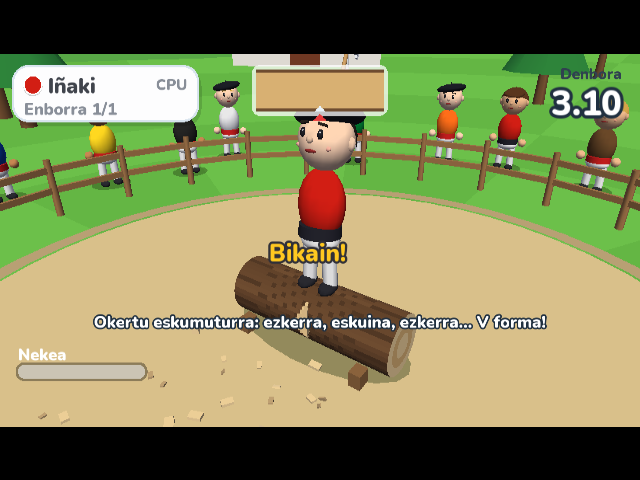
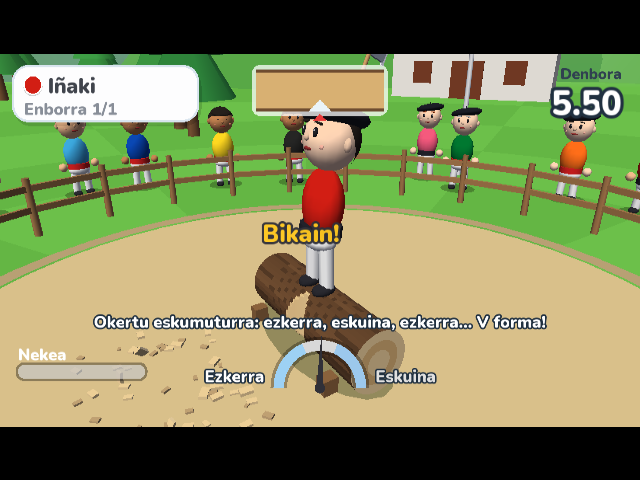
Ajustes de cámara, cansancio y márgenes; script de teclas para Dolphin; documentación

diff --git a/src/games/aizkolaritza/aizko_scene.cpp b/src/games/aizkolaritza/aizko_scene.cpp
@@ -383,8 +383,8 @@ void AizkoScene::update(float dt) {
 
     // Cámara: tres cuartos por delante del aizkolari, gira con él al darse la vuelta
     float camYaw = aizk_.yaw() + 1.0f;
-    float dist = 3.1f, height = 1.25f;
-    Vec3 target = log_.center() + Vec3(0, 0.62f, 0);
+    float dist = 4.0f, height = 1.2f;
+    Vec3 target = log_.center() + Vec3(0, 0.9f, 0);
     if (state_ == ST_INTRO) {
         float k = smooth01(stateT_ / 2.2f);
         camYaw += (1 - k) * 1.3f;
@@ -444,21 +444,21 @@ void AizkoScene::drawHud() {
     const Profile& pr = profile(cur_);
 
     // Jugador y número de tronco
-    ui::panel(16, 14, 250, 74);
-    ui::colorDot(44, 40, 11, FAV_COLORS[pr.color % NUM_COLORS]);
-    font::plain(pr.name, 64, 22, 28, UI_TEXT);
-    if (cfg_.bot[cur_]) font::plain(txt::CPU, 250, 26, 20, UI_TEXT_LIGHT, ALIGN_RIGHT);
+    ui::panel(34, 26, 250, 74);
+    ui::colorDot(62, 52, 11, FAV_COLORS[pr.color % NUM_COLORS]);
+    font::plain(pr.name, 82, 34, 28, UI_TEXT);
+    if (cfg_.bot[cur_]) font::plain(txt::CPU, 268, 38, 20, UI_TEXT_LIGHT, ALIGN_RIGHT);
     snprintf(buf, sizeof(buf), txt::LOG_N_OF, clampv(logIndex_ + 1, 1, cfg_.numLogs), cfg_.numLogs);
-    font::plain(buf, 32, 56, 22, UI_TEXT_LIGHT);
+    font::plain(buf, 50, 68, 22, UI_TEXT_LIGHT);
 
     // Tiempo
     ui::formatTime((unsigned)(timer_ * 1000), buf, sizeof(buf));
-    font::plain(txt::TIME, W - 24, 12, 20, rgba(0x30, 0x40, 0x50), ALIGN_RIGHT);
-    font::draw(buf, W - 24, 32, 46, UI_WHITE, rgba(0x20, 0x30, 0x40), ALIGN_RIGHT);
+    font::plain(txt::TIME, W - 40, 24, 20, rgba(0x30, 0x40, 0x50), ALIGN_RIGHT);
+    font::draw(buf, W - 40, 44, 46, UI_WHITE, rgba(0x20, 0x30, 0x40), ALIGN_RIGHT);
 
     // Esquema del tronco visto desde arriba con las dos V
     {
-        float cx = W / 2, top = 20, w = 170, h = 54;
+        float w = 150, h = 48, cx = W - 40 - w / 2, top = 112;
         gfx::roundRect(cx - w / 2 - 6, top - 6, w + 12, h + 12, 12, rgba(255, 255, 255, 190));
         gfx::rect(cx - w / 2, top, w, h, BARK);
         gfx::rect(cx - w / 2, top + 4, w, h - 8, WOOD_MID);
@@ -474,7 +474,7 @@ void AizkoScene::drawHud() {
 
     // Cansancio
     {
-        float x = 24, y = 400, w = 170, h = 18;
+        float x = 44, y = 396, w = 170, h = 18;
         font::plain(txt::FATIGUE, x, y - 28, 22, UI_WHITE);
         gfx::roundRect(x - 3, y - 3, w + 6, h + 6, 11, rgba(0, 0, 0, 90));
         gfx::roundRect(x, y, w, h, 9, rgba(255, 255, 255, 140));

diff --git a/src/engine/tuning.h b/src/engine/tuning.h
@@ -20,8 +20,8 @@ constexpr float LOG_LENGTH = 1.5f;      // m
 constexpr float CUT_PER_CHOP = 0.105f;  // fracción del radio por golpe perfecto
 constexpr float REPEAT_SIDE_FACTOR = 0.35f;  // golpe por el mismo lado de la V que el anterior
 constexpr float STRAIGHT_FACTOR = 0.5f;      // golpe sin inclinar
-constexpr float FATIGUE_PER_CHOP = 0.11f;
-constexpr float FATIGUE_RECOVER = 0.28f;     // por segundo
+constexpr float FATIGUE_PER_CHOP = 0.1f;
+constexpr float FATIGUE_RECOVER = 0.14f;     // por segundo
 constexpr float FATIGUE_HEAVY = 0.7f;        // a partir de aquí los golpes pierden fuerza
 constexpr float TURN_ALLOWED = 0.6f;         // profundidad (× radio) para poder darse la vuelta
 constexpr float TURN_PROMPT = 0.9f;          // profundidad para mostrar "Buelta eman!"

diff --git a/src/main.cpp b/src/main.cpp
@@ -33,7 +33,7 @@ static Scene* firstScene() {
         case 6:
             cfg.training = false;
             cfg.numPlayers = 2;
-            cfg.numLogs = 2;
+            cfg.numLogs = 1;
             cfg.bot[0] = cfg.bot[1] = true;
             return makeAizkoScene(cfg);
         case 7:

diff --git a/CLAUDE.md b/CLAUDE.md
@@ -3,7 +3,7 @@
 Juego homebrew de Wii estilo Wii Sports con deportes rurales vascos. Lee **docs/SPEC.md** (qué se construye) y **docs/ROADMAP.md** (por dónde vamos) antes de empezar cualquier tarea.
 
 ## Forma de trabajar
-- El usuario habla castellano; los textos del juego van en **euskera**.
+- El usuario habla castellano; los textos del juego van en **euskera** (todos en `src/game/text.h`).
 - Tareas medianas: coge el siguiente punto sin hacer de ROADMAP.md, impleméntalo, compílalo, pruébalo en Dolphin (con captura de pantalla) y luego haz commit + push y marca el punto en el roadmap.
 - Lo que solo se puede comprobar en la Wii real (cómo se sienten los gestos, el rendimiento) se apunta en la sección "Pendiente de probar en Wii" del final, para que lo pruebe el usuario.
 - El repo es **público**: solo assets propios o con licencia CC0/OFL (apúntalos en `ASSETS.md`). Nada de assets de Nintendo ni ISOs.
@@ -11,19 +11,39 @@ Juego homebrew de Wii estilo Wii Sports con deportes rurales vascos. Lee **docs/
 ## Entorno (Windows)
 - devkitPro: `C:\devkitPro` (instalador por defecto; entorno de devkitPro: `DEVKITPRO=/opt/devkitpro`, `DEVKITPPC=/opt/devkitpro/devkitPPC`)
 - Dolphin: `D:\Tools\Dolphin\Dolphin-x64\Dolphin.exe` (portable; config en `User/` junto al exe)
-- Blender: abierto con el addon MCP (herramientas `mcp__blender__*`) para crear modelos
+- Blender: addon MCP (herramientas `mcp__blender__*`), de momento no se usa: la geometría es procedural
 - Disco C: casi lleno: proyecto, Dolphin y descargas en D:
 
 ## Comandos
-- Compilar: `scripts/build.ps1` → `build/boot.dol`
-- Ejecutar en Dolphin: `scripts/run.ps1`
-- Captura de Dolphin: `scripts/screenshot.ps1`
+- Compilar versión para jugar: `scripts/build.ps1` → `build/boot.dol`
+- Compilar versión de prueba: `scripts/build.ps1 -Test -Scene N` → `build-test/boot.dol`
+  - Activa `DEBUG_INPUT` (botones 1 = golpe ezkerra, 2 = golpe eskuina, − = golpe recto)
+  - `START_SCENE`: 0 título, 1 menú, 2 preparar partida, 3 jugadores, 4 récords, 5 entrenamiento,
+    6 lehiaketa CPU contra CPU (resultados), 7 entrenamiento con la CPU
+- Ejecutar en Dolphin: `scripts/run.ps1 [-Dol ruta]`
+- Captura de Dolphin: `scripts/screenshot.ps1 -Name x` → `build/screenshots/x.png`
+- Pulsar teclas en Dolphin: `scripts/keys.ps1 X,DOWN,X,1,2` (X = A, Z = B, flechas = cruceta, 1/2, Q = −, E = +, ENTER = HOME; un número = pausa en ms)
 - Copiar al USB de la Wii (`WiiGames`, normalmente E:): `scripts/install-usb.ps1 -Drive E`
-- Mandar a la Wii (el usuario no tiene lector SD; usa USB o red): `scripts/deploy.ps1` (wiiload; IP de la Wii en `$env:WIILOAD = "tcp:192.168.x.x"`)
+- Mandar a la Wii por red: `scripts/deploy.ps1` (wiiload; IP de la Wii en `$env:WIILOAD = "tcp:192.168.x.x"`)
+- Regenerar recursos: `python tools/bake_font.py assets/fonts/Nunito-Variable.ttf data/font.bin`, `python tools/gen_sfx.py data`
+
+## Estructura
+- `src/engine/` motor (gfx, mesh, font, input, audio, save, ui, scene, tuning.h)
+- `src/game/` cosas comunes a todos los juegos (personaje, escenario, paleta, textos)
+- `src/scenes/` menús (título, menú, preparar partida, jugadores, récords)
+- `src/games/aizkolaritza/` el juego: tronco, aizkolari (animaciones) y la escena de partida
+- `data/` binarios embebidos en el .dol (fuente, sonidos), generados por `tools/`
 
 ## Pendiente de probar en Wii
-- Fase 1: cubo girando + HOME vuelve al Homebrew Channel (copiar `build/boot.dol` + `hbc/herri-kirolak/meta.xml` a `USB:/apps/herri-kirolak/` (USB en FAT32), o enviar con `scripts/deploy.ps1`)
+- Detector de hachazo con mando real: umbrales en `src/engine/tuning.h` (`SWING_START_G`, `CHOP_MIN_G`, `CHOP_FULL_G`).
+- Inclinación de muñeca para ezkerra/eskuina: si sale al revés, `TILT_SIGN = -1`. Ajustar `TILT_FULL_G` si cuesta inclinar.
+- Rendimiento a 60 fps con 28 espectadores + astillas (si va lento: menos público).
+- Guardado de jugadores y récords en el USB (`usb:/apps/herri-kirolak/save.dat`).
+- Que los textos no queden cortados por los bordes de la tele (overscan).
 
 ## Convenciones técnicas
-- Caras en orden antihorario (como OpenGL) → `GX_SetCullMode(GX_CULL_FRONT)`.
-- Dolphin: la config está en `D:\Tools\Dolphin\Dolphin-x64\User\Config\` (estadísticas desactivadas, sin confirmar al parar).
+- Caras en orden antihorario (como OpenGL) → `GX_SetCullMode(GX_CULL_FRONT)`. `MeshBuilder::tri()` orienta solo.
+- 2D en coordenadas virtuales: 854×480 en 16:9, 640×480 en 4:3 (`gfx::screenW()`).
+- Personaje: mira hacia +Z con yaw 0. El tronco está tumbado sobre el eje X; la V de delante es +Z.
+- Las mallas de personajes se cachean por aspecto (`characterCache`, 32 huecos); el público usa 10 aspectos.
+- Dolphin: config en `D:\Tools\Dolphin\Dolphin-x64\User\Config\` (estadísticas desactivadas; A también con X, B con Z).

diff --git a/docs/ROADMAP.md b/docs/ROADMAP.md
@@ -6,37 +6,44 @@ Tareas medianas, en orden. Marcar `[x]` al terminar (con commit + push).
 - [x] devkitPro (wii-dev) instalado en `C:\devkitPro`, variables `DEVKITPRO`/`DEVKITPPC` configuradas
 - [x] Dolphin portable en `D:\Tools\Dolphin\Dolphin-x64`
 - [x] Repo público `izeta8/herri-kirolak` creado y con push
-- [x] Scripts: `scripts/build.ps1`, `scripts/run.ps1` (Dolphin), `scripts/screenshot.ps1`, `scripts/deploy.ps1` (wiiload)
+- [x] Scripts: build, run (Dolphin), screenshot, keys (teclas en Dolphin), install-usb, deploy (wiiload)
 
 ## Fase 1 — Hola mundo
 - [x] Makefile libogc que genera `boot.dol`; arranca en Dolphin y muestra un cubo 3D con GX
-- [ ] Probado en Wii real vía Homebrew Channel (`hbc/herri-kirolak/` con `meta.xml` + `icon.png`)
+- [x] Probado en Wii real vía Homebrew Channel desde USB
 - [x] Botón HOME vuelve al Homebrew Channel
 
 ## Fase 2 — Motor base
-- [ ] Bucle principal, timing fijo, gestor de escenas (título, menú, juego, resultados)
-- [ ] Render: cámara, luz difusa + ambiente, meshes, colores planos, 16:9/4:3
-- [ ] Pipeline de modelos: Blender → exportador Python → formato binario propio → embebido en el `.dol`
-- [ ] Texturas → TPL/GX (CMPR/RGB5A3)
-- [ ] Fuente bitmap redondeada (OFL) con caracteres euskera; renderizado de texto 2D
-- [ ] Entrada: WPAD para 4 mandos, aceleración filtrada, detector de gestos (levantar/golpear, giro de muñeca)
-- [ ] Audio: ASND, cargar WAV/PCM para efectos
-- [ ] UI: botones estilo Wii navegables con cruceta, fundidos
-- [ ] Guardado en USB/SD (libfat, carpeta de argv[0])
+- [x] Bucle principal, gestor de escenas con fundidos, diálogo de HOME, reset/power
+- [x] Render: cámara, 2 luces + ambiente, niebla, mallas en display lists, colores planos, 16:9/4:3
+- [x] Geometría procedural (esferas, cilindros, cápsulas, cajas) — de momento no hace falta Blender
+- [ ] Pipeline de modelos Blender → OBJ → formato binario (cuando haga falta algo más complejo)
+- [x] Fuente redondeada Nunito (OFL) con contorno, caracteres euskera (ñ, tildes)
+- [x] Entrada: WPAD 4 mandos, gravedad filtrada, detector de hachazo (fuerza + inclinación de muñeca)
+- [x] Audio: ASND con efectos sintetizados (tools/gen_sfx.py)
+- [x] UI: botones estilo Wii navegables con cruceta, barra de ayuda, paneles
+- [x] Guardado en USB/SD (libfat, carpeta de argv[0])
 
 ## Fase 3 — Personajes
-- [ ] Modelo de personaje "tipo Mii" (cabeza, cuerpo, manos flotantes, txapela, gerriko)
-- [ ] Animaciones procedurales: idle, levantar hacha, golpe, giro, celebración
-- [ ] Editor sencillo de personaje (color, txapela, nombre)
+- [x] Personaje "tipo Mii" (cabeza con cara, cuerpo, manos flotantes, txapela, gerriko)
+- [x] Animaciones procedurales: reposo, levantar hacha, golpe, darse la vuelta, celebración
+- [x] Editor de jugadores (nombre con teclado en pantalla, color, piel, pelo, txapela)
 
 ## Fase 4 — Aizkolaritza (MVP)
-- [ ] Escenario: plaza, tronco, público
-- [ ] Tronco deformable con corte en V (profundidad por lado), astillas como partículas
-- [ ] Mecánica de golpe (fuerza, ángulo ezker/eskuin, calidad, cansancio)
-- [ ] "Buelta eman!" y segunda V, el tronco se parte
-- [ ] Modo Entrenamendua
-- [ ] Modo Lehiaketa 1–4 jugadores por turnos + resultados + récords
-- [ ] Ajuste fino en Wii real con mandos de verdad
+- [x] Escenario: plaza, tronco, público que aplaude y salta, baserris, ikurriña
+- [x] Tronco deformable con corte en V (profundidad por lado), astillas como partículas
+- [x] Mecánica de golpe (fuerza, lado ezker/eskuin, calidad, cansancio)
+- [x] "Buelta eman!" y segunda V, el tronco se parte
+- [x] Modo Entrenamendua (con consejos)
+- [x] Modo Lehiaketa 1–4 jugadores por turnos (+ CPU) + resultados + récords
+- [ ] **Ajuste fino en Wii real con mandos de verdad** (ver "Pendiente de probar en Wii" en CLAUDE.md)
+- [ ] Icono del Homebrew Channel (`hbc/herri-kirolak/icon.png`, 128×48)
+
+## Mejoras posibles (Aizkolaritza)
+- [ ] Pantalla de calibración / prueba del mando (ver fuerza e inclinación en vivo)
+- [ ] 2 jugadores a la vez a pantalla partida
+- [ ] Troncos de distinto grosor
+- [ ] Rival fantasma (mejor tiempo)
 
 ## Más adelante
 - [ ] Miis reales

diff --git a/ASSETS.md b/ASSETS.md
@@ -2,3 +2,6 @@
 
 | Asset | Origen | Licencia |
 |---|---|---|
+| `assets/fonts/Nunito-Variable.ttf` → `data/font.bin` | [Nunito](https://github.com/googlefonts/nunito) (Google Fonts) | SIL OFL 1.1 (`assets/fonts/OFL.txt`) |
+| `data/sfx_*.bin` | Sintetizados por `tools/gen_sfx.py` | Propios (MIT) |
+| Modelos 3D | Generados por código (`src/game`, `src/games`) | Propios (MIT) |
